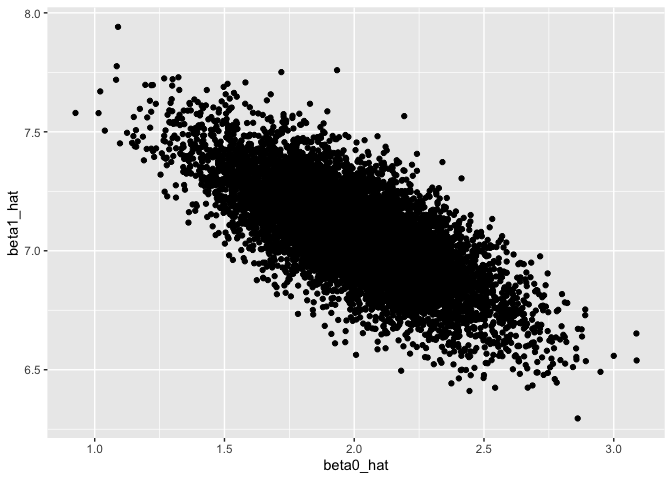
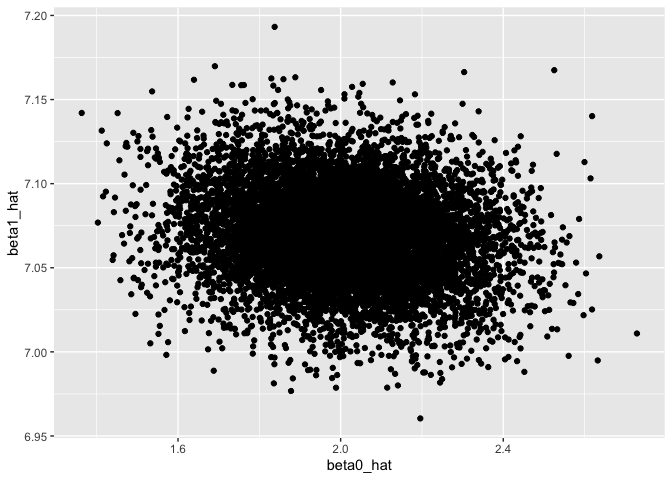
Adding purrr library. Figured out map statement for Problem 1. Reformatted Problem 3 with new list statement for betas and output for table. Shows beta estimates and p-values. Need to get plotting together.

diff --git a/HW5-RMarkdown.md b/HW5-RMarkdown.md
@@ -17,14 +17,14 @@ with “virginica”. Use a map
 library(tidyverse)
 ```
 
-    ## ── Attaching packages ──────────────────────────────────────────────── tidyverse 1.2.1 ──
+    ## ── Attaching packages ───────────────────────────────────────────────── tidyverse 1.2.1 ──
 
     ## ✔ ggplot2 3.2.1     ✔ purrr   0.3.2
     ## ✔ tibble  2.1.3     ✔ dplyr   0.8.3
     ## ✔ tidyr   1.0.0     ✔ stringr 1.4.0
     ## ✔ readr   1.3.1     ✔ forcats 0.4.0
 
-    ## ── Conflicts ─────────────────────────────────────────────────── tidyverse_conflicts() ──
+    ## ── Conflicts ──────────────────────────────────────────────────── tidyverse_conflicts() ──
     ## ✖ dplyr::filter() masks stats::filter()
     ## ✖ dplyr::lag()    masks stats::lag()
 
@@ -151,7 +151,7 @@ n=30
 sim_regression = function(n, beta0 = 2, beta1 = 0) {
   
   sim_data = tibble(
-    x = rnorm(n, mean = 1, sd = 1),
+    x = rnorm(n, mean = 1, sd = 7.07), #variance was 50, so taking the square root gives sd of 7.07
     y = beta0 + beta1 * x + rnorm(n, 0, 1)
   )
   
@@ -198,7 +198,7 @@ sim_results %>%
 
 | parameter  | emp\_mean | emp\_var |
 | :--------- | --------: | -------: |
-| beta0\_hat |     2.004 |    0.072 |
-| beta1\_hat |     7.069 |    0.037 |
+| beta0\_hat |     2.004 |    0.035 |
+| beta1\_hat |     7.070 |    0.001 |
 
 ## Repeating regression
